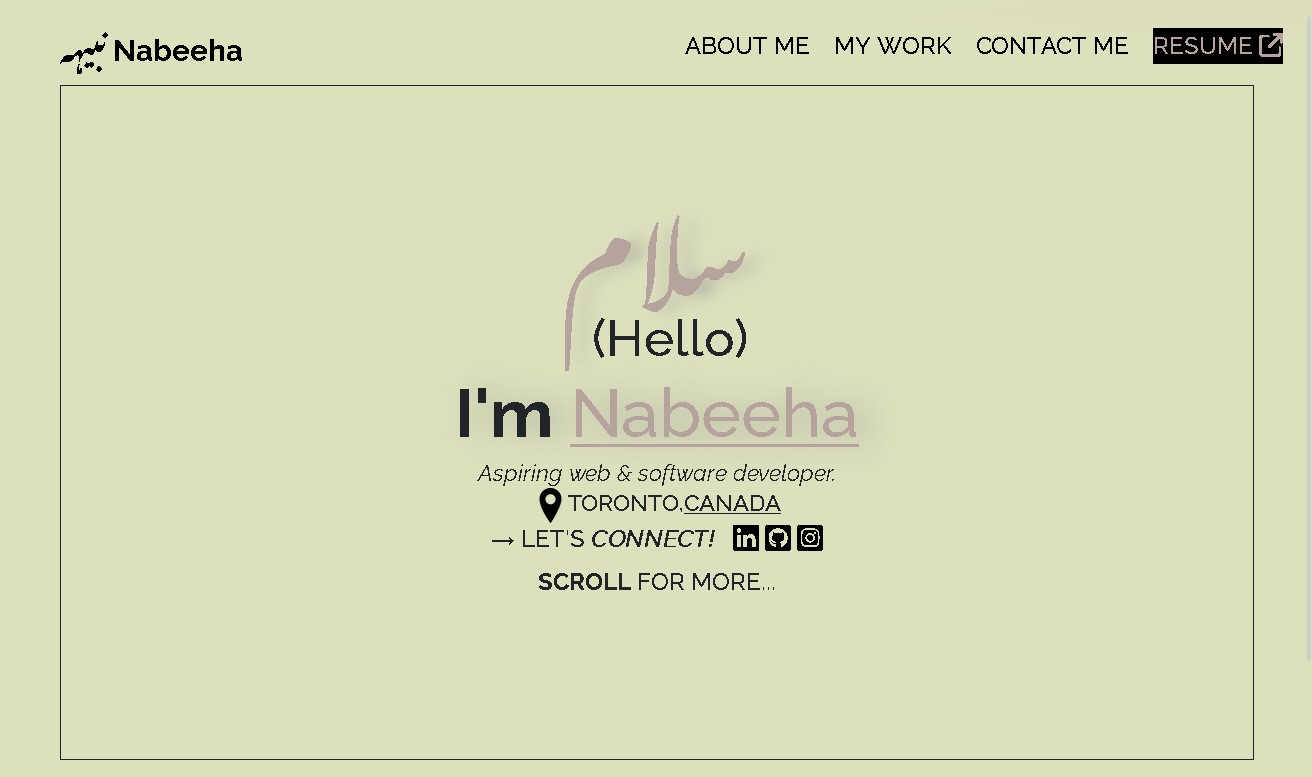
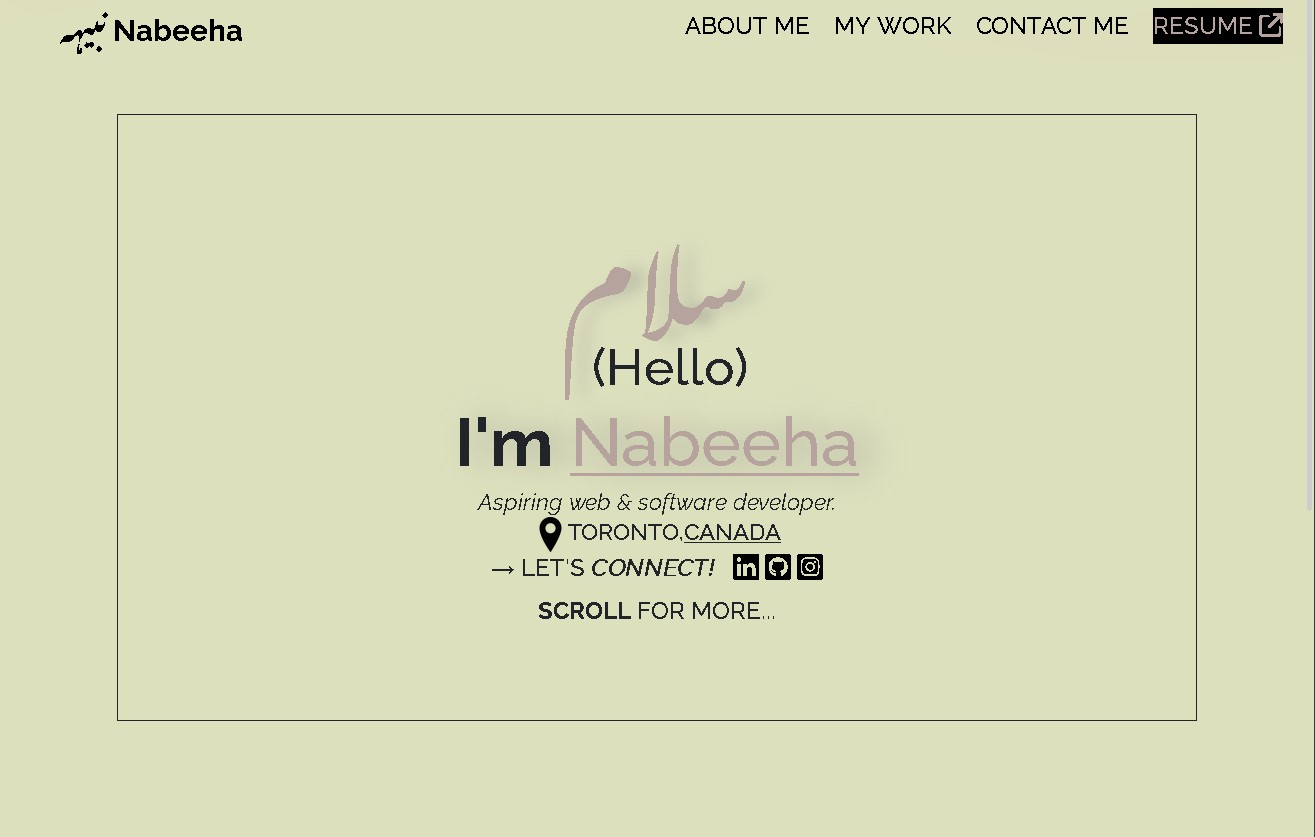
Update index.html

diff --git a/index.html b/index.html
@@ -128,7 +128,7 @@
                         <div class="container">
                             <div class="row">
                                 <div class="col-5">
-                                    <img class="image tb-img" src="./images/NS-Circle.png"> <img class="image scribble"
+                                    <img class="img-fluid image tb-img" src="./images/NS-Circle.png"> <img class="img-fluid scribble"
                                         src="https://www.onlygfx.com/wp-content/uploads/2017/03/scribble-circle-5.png">
                                 </div>
                                 <div class="col-6">
@@ -169,7 +169,7 @@
                 </ul>
             </div>
             <div class="col qual-card">
-                <h4 class="heading-shadow">&nbsp;My Languages</h4>
+                <h4 class="heading-shadow">&nbsp;Technical Skills</h4>
                 <div class="container">
                     <div class="row">
                         <div class="col">
@@ -178,18 +178,21 @@
                                 <li>C/C++</li>
                                 <li>Python</li>
                                 <li>Java</li>
+                                <li>Object Oriented Programming Principles</li>
                             </ul>
                         </div>
                         <div class="col">
                             <h5><em>Web <br> Development</em></h5>
                             <ul>
                                 <li>HTML5</li>
+                                <li>MERN</li>
+                                <li>DOM</li>
                                 <li>JavaScript</li>
                                 <li>React</li>
                                 <li>jQuery</li>
-                                <li>Node</li>
                                 <li>Bootstrap</li>
                                 <li>MongoDB</li>
+                                <li>NPM</li>
                                 <li>PostgreSQL</li>
                             </ul>
                         </div>
@@ -197,18 +200,17 @@
                 </div>
             </div>
             <div class="col">
-                <h4 class="heading-shadow" id="certs">&nbsp;Certificates & Courses</h4>
+                <h4 class="heading-shadow" id="certs">&nbsp;Other Skills</h4>
                 <ul>
-                    <li>Harvards CS50</li>
-                    <li>The Complete Web Development Bootcamp - Angela Yu</li>
-                    <li>Other Skills</li>
-                    <ul>
-                        <li>PL SQL</li>
-                        <li>Data Visualisation i.e. Tableu</li>
-                        <li>MS Excel</li>
-                        <li>MS Office</li>
-                        <li>Figma</li>
-                    </ul>
+                    <li>MS Office 365</li>
+                    <li>Project Management Principles (Agile, Scrum)</li>
+                    <li>Android App Development (Java, XML)</li>
+                    <li>Oracle/SQL</li>
+                    <li>Git, GitHub</li>
+                    <li>Intermediate Linux</li>
+                    <li>Intermediate Bash Scripting</li>
+                    <li>Visual Paradigm</li>
+                    <li>Visual Studio/Visual Studio Code</li>
                 </ul>
             </div>
         </div>
@@ -227,7 +229,7 @@
             <div class="carousel-inner wrapper">
                 <div class="carousel-item active">
                     <div class="row">
-                        <table class="container mywork-tb col-md-3">
+                        <table class="mywork-tb container col-md-3">
                             <tr class="tb-header">
                                 <td>
                                     <h2><strong>Resonance Music</strong></h2>
@@ -271,14 +273,14 @@
                 </div>
                 <div class="carousel-item">
                     <div class="row">
-                        <table class="container mywork-tb col-md-3">
+                        <table class="mywork-tb container col-md-3">
                             <tr class="tb-header">
                                 <td>
                                     <h2><strong>Personal Portfolio</strong></h2>
                                     <p>Purpose: Personal portfolio website </p>
                                 </td>
                             </tr>
-                            <tr>
+                            <tr class="mywork-img">
                                 <td><img src="./images/personal-portfolio.jpg" class="mywork-img"></td>
                             </tr>
                         </table>
@@ -301,8 +303,8 @@
                                 through the language I spoke. From there, I built on the design as best as I could </p>
                             <h4> Technologies Used</h4>
                             <ul>
+                                <li>HTML5</li>
                                 <li>Bootstrap V5.3</li>
-                                <li>jQuery</li>
                                 <li>JavaScript</li>
                             </ul>
                         </div>
@@ -325,7 +327,7 @@
 <section>
     <div class="contactForm" id="form">
         <h2>Get in Touch!</h2>
-        <form action="https://formsubmit.co/1d718cff62402cd9ddbd3eb2cb7dafee" method="POST">
+        <form action="https://formsubmit.co/1d718cff62402cd9ddbd3eb2cb7dafee" method="post">
             <div class="formBox">
                 <div class="inputBox w50">
                 <input type="text" name="first_name" required>

diff --git a/css/style.css b/css/style.css
@@ -51,25 +51,23 @@ ul {
 .proj {
     padding: 50px;
 }
+
 .qual {
     padding: 20px;
 }
 
 .mywork-img {
-    height: 350px;
-    width: 500px;
-    border-style: black solid;
-    border-width: 1px;
+    max-height: 350px;
+    max-width: 500px;
+    display: block;
 }
 
 .mywork-tb {
-    padding: 20px;
     border-style: solid;
     border-color: black;
     border-width: 1px;
-    max-width: 300px;
-    max-height: 50vh;
 }
+
 
 .tb-header {
     background-color: #DDE0BD;
@@ -95,7 +93,9 @@ ul {
 }
 
 .tb-img {
-    width: 125px;
+    size: 75%;
+    display: flex;
+    align-items: center;
 }
 
 .logo {
@@ -106,8 +106,6 @@ ul {
 .main-container {
     border-style: solid;
     border-width: 1px;
-    max-width: 1192px;
-    height: 450px;
     padding: 45px;
     margin-top: 50px;
 }
@@ -115,8 +113,6 @@ ul {
 .mywork-container {
     border-style: solid;
     border-width: 1px;
-    max-width: 1192px;
-    height: 550px;
     padding: 45px;
     margin-top: 50px;
 }
@@ -202,12 +198,10 @@ ul {
 }
 
 .image {
-    width: 200px;
+    width: 15%;
     filter: grayscale(100%);
     z-index: 1;
     position: absolute;
-    margin-left: 10px;
-    margin-right: 10px;
 }
 
 .prj-expln {
@@ -218,11 +212,14 @@ ul {
     top: 105%;
 }
 
-.carousel-control-prev,
-.carousel-control-next{
-      top:107%;
-      margin-right: 350px;
-      margin-left: 350px;
+.carousel-control-prev {
+    top: 107%;
+    left: 25%;
+}
+
+.carousel-control-next {
+    top: 107%;
+    right: 25%;
 }
 
 .skills {
@@ -282,30 +279,27 @@ ul {
 #mywork-pg {
     background-color: #948B89;
     padding: 40px;
-    width: 100%;
+    height: 75%;
 }
 
 /* for gmail */
 
- .contactForm
-{
+.contactForm {
     width: 100%;
     padding: 70px 50px;
     height: 100%;
-    background: #fdffe3; 
+    background: #fdffe3;
     border-radius: 22px;
     font-family: 'Raleway', sans-serif;
 }
 
- .contactForm h2
-{
+.contactForm h2 {
     color: #B6A39E;
     font-size: 24px;
     font-weight: 500;
 }
 
- .contactForm .formBox
-{
+.contactForm .formBox {
     position: relative;
     display: flex;
     justify-content: space-between;
@@ -313,25 +307,21 @@ ul {
     padding-top: 30px;
 }
 
- .contactForm .formBox .inputBox
-{
+.contactForm .formBox .inputBox {
     position: relative;
     margin-bottom: 35px;
 }
 
- .contactForm .formBox .inputBox.w50
-{
+.contactForm .formBox .inputBox.w50 {
     width: 47%;
 }
 
- .contactForm .formBox .inputBox.w100
-{
+.contactForm .formBox .inputBox.w100 {
     width: 100%;
 }
 
- .contactForm .formBox .inputBox input,
- .contactForm .formBox .inputBox textarea 
-{
+.contactForm .formBox .inputBox input,
+.contactForm .formBox .inputBox textarea {
     width: 100%;
     resize: none;
     padding: 5px 0;
@@ -344,13 +334,11 @@ ul {
     background-color: #fdffe3;
 }
 
- .contactForm .formBox .inputBox textarea 
-{
+.contactForm .formBox .inputBox textarea {
     height: 120px;
 }
 
- .contactForm .formBox .inputBox span 
-{
+.contactForm .formBox .inputBox span {
     font-family: 'Raleway', sans-serif;
     position: absolute;
     left: 0;
@@ -361,22 +349,20 @@ ul {
     transition: 0.3s;
 }
 
- .contactForm .formBox .inputBox input:focus ~ span,
- .contactForm .formBox .inputBox input:valid ~ span,
- .contactForm .formBox .inputBox textarea:focus ~ span, 
- .contactForm .formBox .inputBox textarea:valid ~ span
-{
+.contactForm .formBox .inputBox input:focus~span,
+.contactForm .formBox .inputBox input:valid~span,
+.contactForm .formBox .inputBox textarea:focus~span,
+.contactForm .formBox .inputBox textarea:valid~span {
     transform: translateY(-20px);
-    font-size:  12px;
+    font-size: 12px;
     font-weight: 400;
     letter-spacing: 1px;
     color: #B6A39E;
     font-weight: 500;
-} 
+}
 
 /* Css for the submit button */
- .contactForm .formBox .inputBox input[type="submit"]         
-{
+.contactForm .formBox .inputBox input[type="submit"] {
     position: relative;
     cursor: pointer;
     background: #B6A39E;
@@ -388,7 +374,7 @@ ul {
 
 }
 
-.contactForm .formBox .inputBox input[type="submit"]:hover{
+.contactForm .formBox .inputBox input[type="submit"]:hover {
     background: #B6A39E;
 }
 
